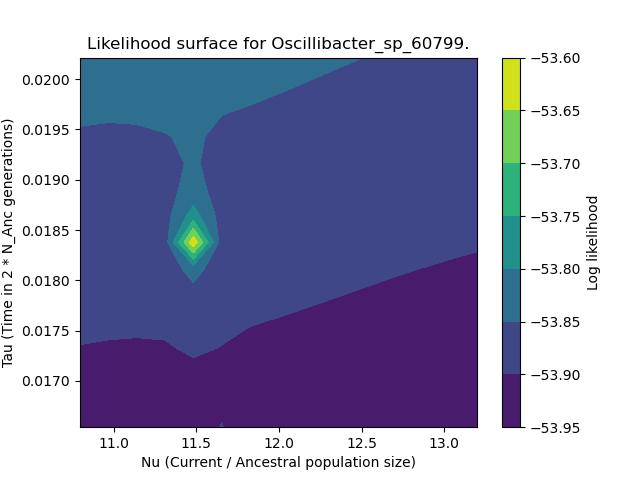
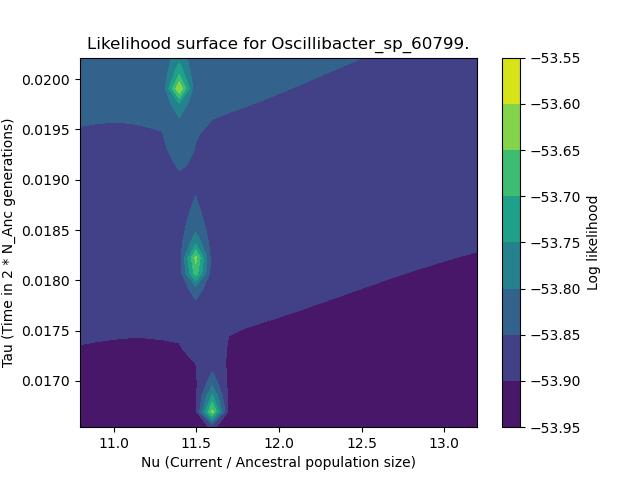
Oscillibacter

diff --git a/Scripts/plot_likelihood.py b/Scripts/plot_likelihood.py
@@ -355,7 +355,7 @@ class PlotLikelihood():
         popt = dadi.Inference.optimize_log_lbfgsb(
             p0=p0, data=syn_data, model_func=func_ex, pts=pts_l,
             lower_bound=None, upper_bound=None,
-            verbose=len(p0), maxiter=3)
+            verbose=len(p0), maxiter=1)
         syn_ns = syn_data.sample_sizes  # Number of samples.
         non_scaled_spectrum = func_ex(popt, syn_ns, pts_l)
         theta = dadi.Inference.optimal_sfs_scaling(
@@ -464,7 +464,7 @@ class PlotLikelihood():
                 x = input_nu  # Initial x value
                 y = input_tau  # Initial y value
                 
-                npts = 15
+                npts = 25
 
                 # B. cellulosilyticus
                 # x_range = numpy.linspace(x * 0.7, x * 1.3, npts)
